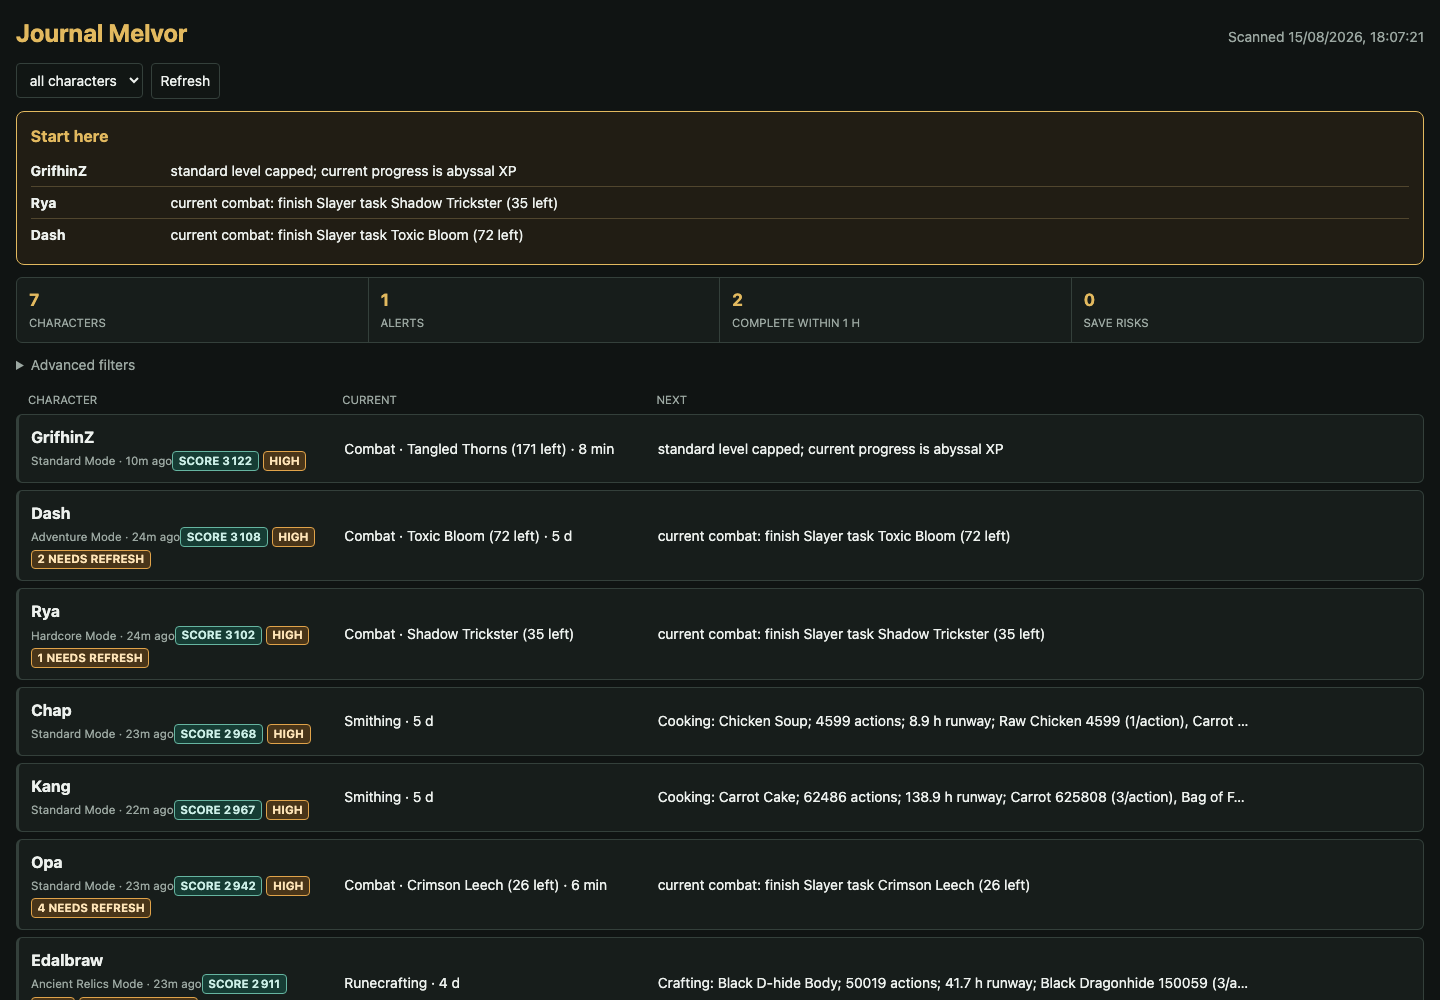
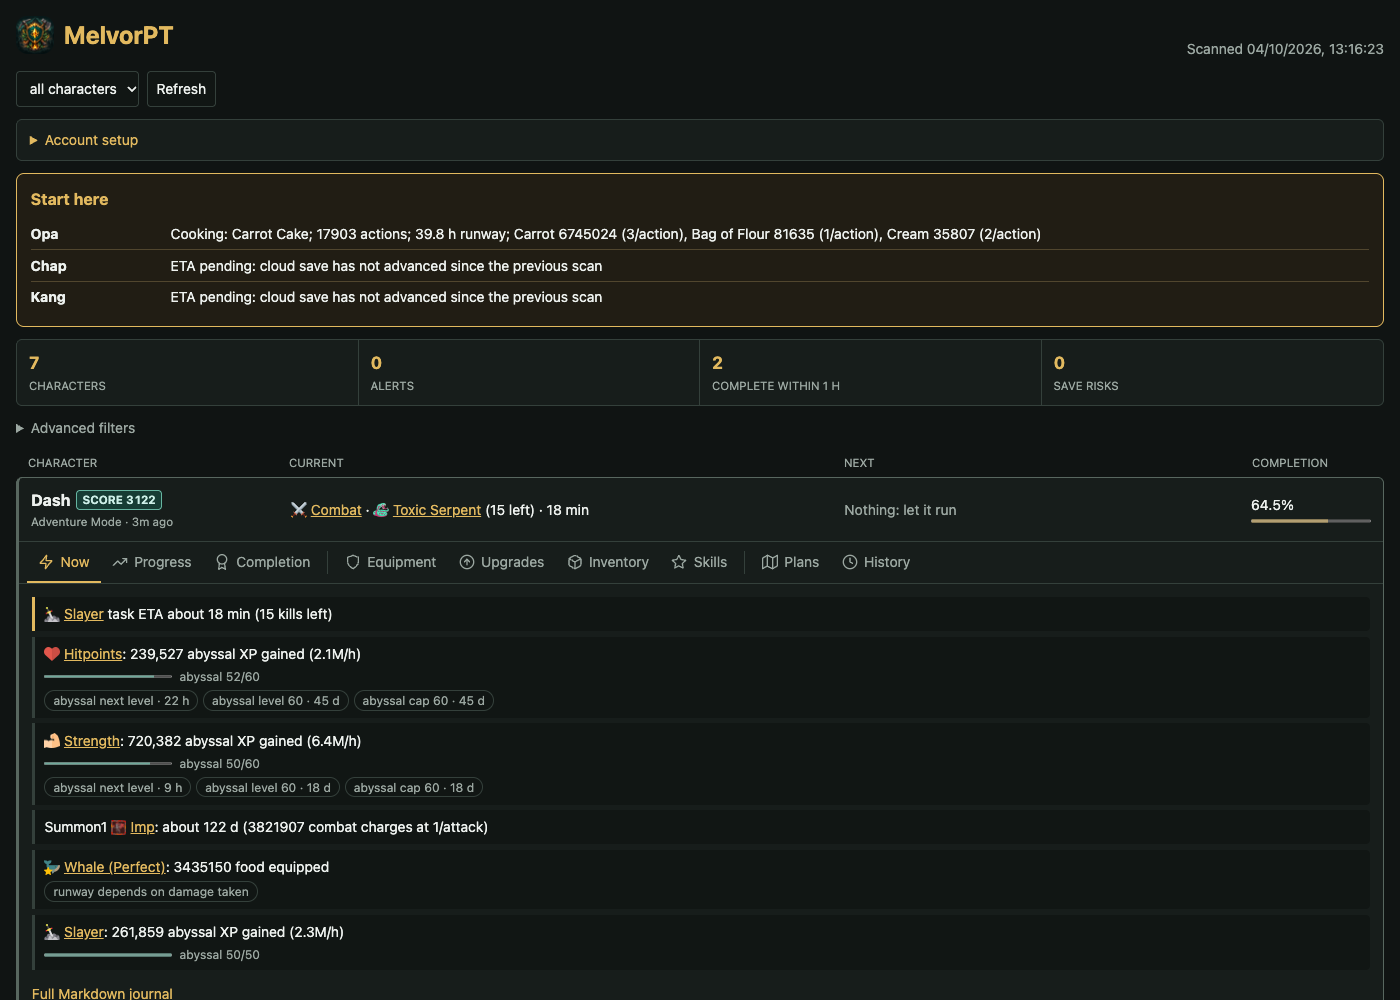
feat(dashboard): readable card columns with completion bar, labelled tab bar, structured Now tab; rename to MelvorPT
- Current/Next/Completion columns get room; idle or pending Next is muted
- Tab bar: icon + label, underline for the active tab, three groups; icons only on mobile
- Now tab: headline, level meter and detail chips instead of one long line
- XP rates are compact (2.1M/h) and ETAs for reached levels are dropped
- Test that the dashboard script still parses (template-literal escapes)
- New README screenshot

diff --git a/melvor-report.js b/melvor-report.js
@@ -332,6 +332,7 @@ async function ensureChrome() {
   throw Error(`Chrome debug port ${PORT} unavailable`);
 }
 
+const fmtRate = n => Intl.NumberFormat('en', { notation: 'compact', maximumFractionDigits: 1 }).format(n);
 function fmtNum(n) {
   return Intl.NumberFormat('en-US', { notation: Math.abs(n) >= 1e9 ? 'compact' : 'standard', maximumFractionDigits: 2 }).format(n);
 }
@@ -1574,14 +1575,14 @@ function progressEtas(current, previous) {
         const nextLevel = Math.min((s.levelCap ?? 120), s.level + 1);
         const nextTen = Math.min((s.levelCap ?? 120), Math.ceil((s.level + 1) / 10) * 10);
         const cap = s.levelCap ?? 120;
-        parts.push(`${s.name}: ${fmtNum(dxp)} XP gained (${fmtNum(dxp * 3600000 / elapsed)}/h)`);
+        parts.push(`${s.name}: ${fmtNum(dxp)} XP gained (${fmtRate(dxp * 3600000 / elapsed)}/h)`);
         if (nextLevel > s.level) parts.push(`next level ETA ${fmtDuration((xpForLevel(nextLevel) - s.xp) / xpPerMs)}`);
         if (nextTen > s.level) parts.push(`level ${nextTen} ETA ${fmtDuration((xpForLevel(nextTen) - s.xp) / xpPerMs)}`);
         if (cap > s.level) parts.push(`cap ${cap} ETA ${fmtDuration((xpForLevel(cap) - s.xp) / xpPerMs)}`);
       }
       if (daxp > 0) {
         const axpPerMs = daxp / elapsed;
-        parts.push(`${s.name}: ${fmtNum(daxp)} abyssal XP gained (${fmtNum(daxp * 3600000 / elapsed)}/h)`);
+        parts.push(`${s.name}: ${fmtNum(daxp)} abyssal XP gained (${fmtRate(daxp * 3600000 / elapsed)}/h)`);
         parts.push(`abyssal level ${s.abyssalLevel ?? '?'}/${s.abyssalCap ?? '?'}`);
         if (s.abyssalXPNextLevel) parts.push(`abyssal next level ETA ${fmtDuration((s.abyssalXPNextLevel - s.abyssalXP) / axpPerMs)}`);
         if (s.abyssalXPNextTen) parts.push(`abyssal level ${Math.min(s.abyssalCap ?? 60, Math.ceil(((s.abyssalLevel ?? 0) + 1) / 10) * 10)} ETA ${fmtDuration((s.abyssalXPNextTen - s.abyssalXP) / axpPerMs)}`);
@@ -1589,7 +1590,7 @@ function progressEtas(current, previous) {
         if (!s.abyssalXPNextLevel && !s.abyssalXPNextTen && !s.abyssalXPCap)
           parts.push('abyssal ETA unavailable until abyssal XP thresholds are mapped');
       }
-      return parts.filter(Boolean).join('; ');
+      return parts.filter(part => part && !/ETA null$/.test(part)).join('; ');
     })
     .filter(Boolean)
     .slice(0, 5);
@@ -1824,7 +1825,7 @@ function renderDashboard(snap) {
 <meta charset="utf-8">
 <meta name="viewport" content="width=device-width, initial-scale=1">
 <link rel="icon" type="image/png" href="/assets/favicon.png">
-<title>Melvor CP</title>
+<title>MelvorPT</title>
 <style>
 :root {
   color-scheme: dark;
@@ -1868,7 +1869,7 @@ button:hover { border-color: var(--accent); }
 button:focus-visible, input:focus-visible, select:focus-visible, summary:focus-visible { outline: 2px solid #e2b95f77; outline-offset: 1px; }
 .check { display: flex; align-items: center; gap: .4rem; white-space: nowrap; color: var(--muted); }
 .check input { width: auto; }
-.column-head, .character-head { display: grid; grid-template-columns: 1fr 1fr 2.5fr; gap: .75rem; min-width: 0; }
+.column-head, .character-head { display: grid; grid-template-columns: minmax(11rem, 1fr) minmax(0, 2.2fr) minmax(0, 1.6fr) 7.5rem; gap: 1rem; min-width: 0; }
 .column-head { padding: .35rem .75rem; color: var(--muted); font-size: .72rem; text-transform: uppercase; }
 .character { margin-bottom: .45rem; border: 1px solid var(--line); border-radius: 6px; background: var(--panel); }
 .character[open] { border-color: #58675f; }
@@ -1879,7 +1880,10 @@ button:focus-visible, input:focus-visible, select:focus-visible, summary:focus-v
 .identity small { color: var(--muted); }
 .identity-title { display: flex; align-items: center; gap: .35rem; min-width: 0; }
 .identity-title .badge { margin: 0; }
-.cell-value { display: block; overflow: hidden; text-overflow: ellipsis; white-space: nowrap; }
+.cell-value { display: -webkit-box; -webkit-line-clamp: 2; -webkit-box-orient: vertical; overflow: hidden; overflow-wrap: anywhere; }
+.cell.idle .cell-value { color: var(--muted); }
+.completion-cell .cell-value { display: grid; gap: .2rem; font-variant-numeric: tabular-nums; }
+.completion-cell progress { width: 100%; height: .35rem; accent-color: var(--accent); }
 .cell-label { display: none; }
 .badge { display: inline-block; margin: .18rem .25rem 0 0; border: 1px solid; border-radius: 4px; padding: .05rem .35rem; font-size: .72rem; font-weight: 650; text-transform: uppercase; }
 .badge.danger, .badge.risk { color: #ffd8d2; border-color: var(--danger); background: #4b211e; }
@@ -1891,17 +1895,26 @@ button:focus-visible, input:focus-visible, select:focus-visible, summary:focus-v
 .tabs { display: flex; gap: .35rem; overflow-x: auto; margin-bottom: .7rem; }
 .tabs button { width: auto; padding: .35rem .65rem; white-space: nowrap; }
 .tabs button[aria-selected="true"] { color: #101413; border-color: var(--accent); background: var(--accent); }
-.tab-switch { display: inline-flex; max-width: 100%; overflow-x: auto; margin-bottom: .7rem; border: 1px solid var(--line); border-radius: 999px; padding: 2px; gap: 2px; }
-.tab-switch button { width: auto; display: grid; place-items: center; padding: .4rem .6rem; border: 0; border-radius: 999px; background: transparent; color: inherit; }
-.tab-switch button:hover { background: var(--line); }
-.tab-switch button[aria-selected="true"] { color: #101413; background: var(--accent); }
-.tab-switch svg { width: 18px; height: 18px; fill: none; stroke: currentColor; stroke-width: 2; stroke-linecap: round; stroke-linejoin: round; }
+.tab-switch { display: flex; overflow-x: auto; margin: -.7rem -.8rem .8rem; padding: 0 .5rem; border-bottom: 1px solid var(--line); scrollbar-width: none; }
+.tab-switch button { width: auto; flex: 0 0 auto; display: flex; align-items: center; gap: .4rem; padding: .6rem .7rem; border: 0; border-bottom: 2px solid transparent; border-radius: 0; background: transparent; color: var(--muted); }
+.tab-switch button:hover { color: var(--ink); border-color: transparent; }
+.tab-switch button[aria-selected="true"] { color: var(--accent); border-bottom-color: var(--accent); }
+.tab-switch .tab-sep { flex: 0 0 1px; margin: .55rem .35rem; background: var(--line); }
+.tab-switch svg { width: 16px; height: 16px; flex: none; fill: none; stroke: currentColor; stroke-width: 2; stroke-linecap: round; stroke-linejoin: round; }
+.insight-list { display: grid; gap: .35rem; }
+.insight { display: grid; gap: .3rem; padding: .45rem .6rem; border-left: 3px solid var(--line); border-radius: 0 4px 4px 0; background: #111614; }
+.insight.p-critical { border-left-color: var(--danger); }
+.insight.p-high { border-left-color: var(--accent); }
+.insight.sev-warning { border-left-color: var(--warning); }
+.insight-chips { display: flex; flex-wrap: wrap; gap: .3rem; }
+.insight-chips span { border: 1px solid var(--line); border-radius: 999px; padding: .05rem .5rem; color: var(--muted); font-size: .76rem; }
+.insight-meter { display: flex; align-items: center; gap: .45rem; color: var(--muted); font-size: .76rem; font-variant-numeric: tabular-nums; }
+.insight-meter progress { width: 8rem; height: .35rem; accent-color: var(--teal); }
 .panel[hidden] { display: none; }
 .panel-grid { display: grid; grid-template-columns: repeat(2, minmax(0, 1fr)); gap: 1rem; }
 .group { min-width: 0; }
 .group h3 { margin: 0 0 .3rem; color: var(--accent); font-size: .82rem; text-transform: uppercase; }
-.insight, .plain-list li { margin: .25rem 0; overflow-wrap: anywhere; }
-.insight .badge { margin-right: .45rem; }
+.plain-list li { margin: .25rem 0; overflow-wrap: anywhere; }
 .plain-list { margin: 0; padding-left: 1.1rem; }
 .equipment-sheet { display: grid; gap: .7rem; }
 .equipment-summary { display: flex; flex-wrap: wrap; gap: .35rem; }
@@ -1954,6 +1967,9 @@ a { color: var(--accent); }
   #q { grid-column: 1 / -1; }
   .column-head { display: none; }
   .character-head { grid-template-columns: repeat(2, minmax(0, 1fr)); gap: .55rem .7rem; }
+  .tab-switch .tab-label { display: none; }
+  .tab-switch button { padding: .55rem .5rem; }
+  .tab-switch .tab-sep { margin: .55rem .15rem; }
   .identity { grid-column: 1 / -1; }
   .cell-label { display: block; color: var(--muted); font-size: .68rem; text-transform: uppercase; }
   .cell-value { white-space: normal; overflow-wrap: anywhere; }
@@ -1961,7 +1977,7 @@ a { color: var(--accent); }
 }
 </style>
 <body>
-<header class="title-row"><div class="brand"><img src="/assets/mpt-crest.png" alt=""><h1>Melvor CP</h1></div><p id="scanTime"></p></header>
+<header class="title-row"><div class="brand"><img src="/assets/mpt-crest.png" alt=""><h1>MelvorPT</h1></div><p id="scanTime"></p></header>
 <section id="refreshControls" aria-label="Refresh journal"><select id="refreshCharacter"><option value="all">all characters</option></select><button id="refreshButton" type="button">Refresh</button><span id="refreshStatus"></span></section>
 <details id="setup"><summary>Account setup</summary><ol><li>Sign in through the official Melvor page in the shared browser profile.</li><li>Set your character roster in <code>.env.local</code>.</li><li>Use Refresh to build the first local journal.</li></ol><p><a href="https://melvoridle.com/" target="_blank" rel="noopener">Open Melvor sign-in</a> · MPT never stores your credentials.</p></details>
 <section id="start"><h2>Start here</h2></section>
@@ -1974,7 +1990,7 @@ a { color: var(--accent); }
   <select id="fPriority"><option value="">all priorities</option><option value="critical">critical</option><option value="high">high</option><option value="medium">medium</option><option value="low">low</option></select>
   <label class="check"><input id="fAttention" type="checkbox"> needs attention</label>
 </div></details>
-<div class="column-head" aria-hidden="true"><span>Character</span><span>Current</span><span>Next</span></div>
+<div class="column-head" aria-hidden="true"><span>Character</span><span>Current</span><span>Next</span><span>Completion</span></div>
 <div id="cards"></div>
 <script id="data" type="application/json">${json}</script>
 <script>
@@ -2070,7 +2086,8 @@ const wikiText = text => {
 const list = items => { const ul = el('ul', 'plain-list'); for (const item of [...new Set(items)].filter(Boolean)) { const row = el('li'); row.append(wikiText(item)); ul.append(row); } return ul; };
 const group = (title, items) => { if (!items.length) return null; const box = el('section', 'group'); box.append(el('h3', '', title), list(items)); return box; };
 // Icon-only tab switch: the label stays in title/aria-label. Static Lucide-style paths, no user data.
-const TAB_LABELS = { now: 'Now', progress: 'Progress', equipment: 'Equipment', upgrades: 'Upgrade plans', completion: 'Completion', skills: 'Skills', inventory: 'Inventory', plans: 'Plans', history: 'History' };
+const TAB_GROUP = { now: 0, progress: 0, completion: 0, equipment: 1, upgrades: 1, inventory: 1, skills: 1, plans: 2, history: 2 };
+const TAB_LABELS = { now: 'Now', progress: 'Progress', equipment: 'Equipment', upgrades: 'Upgrades', completion: 'Completion', skills: 'Skills', inventory: 'Inventory', plans: 'Plans', history: 'History' };
 const TAB_ICONS = {
   now: '<polygon points="13 2 3 14 12 14 11 22 21 10 12 10 13 2"/>',
   progress: '<polyline points="22 7 13.5 15.5 8.5 10.5 2 17"/><polyline points="16 7 22 7 22 13"/>',
@@ -2098,9 +2115,20 @@ const completionSheet = c => {
 const panel = (name, groups) => { const body = el('div', 'panel panel-grid'); body.dataset.panel = name; for (const item of groups.filter(Boolean)) body.append(item); return body.children.length ? body : null; };
 const insightPanel = items => {
   if (!items.length) return null;
-  const body = el('div', 'panel'); body.dataset.panel = 'now';
+  const body = el('div', 'panel insight-list'); body.dataset.panel = 'now';
   for (const item of items.slice(0, 10)) {
-    const row = el('div', 'insight'); row.append(el('span', 'badge ' + item.severity, item.priority), wikiText(item.label)); body.append(row);
+    // "Skill: headline; detail; detail" -> headline + level meter + detail chips
+    const [headline, ...details] = item.label.split('; ');
+    const row = el('div', 'insight p-' + item.priority + ' sev-' + item.severity); row.title = item.priority + ' priority';
+    const head = el('div'); head.append(wikiText(headline)); row.append(head);
+    const chips = el('div', 'insight-chips');
+    for (const detail of details) {
+      const level = /^(abyssal )?level (\\d+)\\/(\\d+)$/.exec(detail);
+      if (level) { const meter = el('div', 'insight-meter'); const bar = el('progress'); bar.max = +level[3]; bar.value = +level[2]; meter.append(bar, el('span', '', (level[1] ? 'abyssal ' : '') + level[2] + '/' + level[3])); row.append(meter); }
+      else chips.append(el('span', '', detail.replace(/ ETA /, ' · ')));
+    }
+    if (chips.children.length) row.append(chips);
+    body.append(row);
   }
   return body;
 };
@@ -2211,7 +2239,12 @@ function render() {
     identity.append(identityTitle, el('small', '', (c.observed.mode || '') + ' · ' + relative(c.observed.at)));
     if (hasRisk(name)) identity.append(el('span', 'badge risk', 'save risk'));
     const cell = (label, value) => { const n = el('div', 'cell'); const text = el('span', 'cell-value'); text.append(value || '—'); n.append(el('span', 'cell-label', label), text); return n; };
-    head.append(identity, cell('Current', wikiText(current(c) + (eta?.etaSeconds ? ' · ' + fmtEta(eta.etaSeconds) : ''))), cell('Next', wikiText(nextAction(decision))));
+    const next = nextAction(decision);
+    const nextCell = cell('Next', wikiText(next)); if (/^(Nothing|ETA pending)/.test(next)) nextCell.classList.add('idle');
+    const done = c.observed.completion?.total;
+    const completionCell = cell('Completion', null); completionCell.classList.add('completion-cell');
+    if (done != null) { const bar = el('progress'); bar.max = 100; bar.value = done; completionCell.querySelector('.cell-value').replaceChildren(el('span', '', done.toFixed(1) + '%'), bar); }
+    head.append(identity, cell('Current', wikiText(current(c) + (eta?.etaSeconds ? ' · ' + fmtEta(eta.etaSeconds) : ''))), nextCell, completionCell);
     details.append(head);
 
     const body = el('div', 'character-body');
@@ -2226,11 +2259,11 @@ function render() {
     const panels = [
       insightPanel(insights(c)),
       panel('progress', [group('Level ETA', c.analysis.progressEtas || []), group('Standard lows', (c.observed.standard?.lowest || []).slice(0, 6).map(s => s.name + ' ' + s.level + '/' + s.cap)), group('Abyssal lows', (c.observed.abyssal?.lowest || []).slice(0, 6).map(s => s.name + ' ' + s.abyssalLevel + '/' + s.abyssalCap))]),
+      completionSheet(c),
       equipment,
       upgradeSheet(c),
-      skillsSheet(c),
       inventorySheet(c),
-      completionSheet(c),
+      skillsSheet(c),
       panel('plans', [group('Standard plan', c.analysis.standardPlan || []), group('Abyssal plan', c.analysis.abyssalPlan || []), group('Decisions', actions), group('Risk notes', c.analysis.riskNotes || [])]),
       history.children.length ? history : null,
     ].filter(Boolean);
@@ -2238,8 +2271,10 @@ function render() {
     for (const [index, content] of panels.entries()) {
       const tabName = content.dataset.panel;
       const label = TAB_LABELS[tabName] || tabName;
-      const btn = el('button', ''); btn.type = 'button'; btn.dataset.tab = tabName; btn.title = label; btn.setAttribute('aria-label', label); btn.setAttribute('role', 'tab'); btn.setAttribute('aria-selected', index === 0 ? 'true' : 'false');
-      if (TAB_ICONS[tabName]) btn.innerHTML = '<svg viewBox="0 0 24 24" aria-hidden="true">' + TAB_ICONS[tabName] + '</svg>'; else btn.textContent = label;
+      const btn = el('button', ''); btn.type = 'button'; btn.dataset.tab = tabName; btn.setAttribute('role', 'tab'); btn.setAttribute('aria-selected', index === 0 ? 'true' : 'false');
+      if (TAB_ICONS[tabName]) btn.innerHTML = '<svg viewBox="0 0 24 24" aria-hidden="true">' + TAB_ICONS[tabName] + '</svg>';
+      btn.append(el('span', 'tab-label', label));
+      if (index && TAB_GROUP[tabName] !== TAB_GROUP[panels[index - 1].dataset.panel]) tabs.append(el('span', 'tab-sep'));
       content.hidden = index !== 0; tabs.append(btn); body.append(content);
     }
     body.prepend(tabs);

diff --git a/test-journal.js b/test-journal.js
@@ -216,7 +216,7 @@ assert.match(html, /wiki\.melvoridle\.com\/api\.php/, 'equipment sheet loads off
 assert.match(html, /score\(b\[1\]\) - score\(a\[1\]\)/, 'characters sort by total-level score');
 assert.match(html, /identity-title/, 'score is grouped with the character name');
 assert.match(html, /nextAction/, 'dashboard keeps the next action compact');
-assert.match(renderDashboard(buildLatest([upgrades], new Map(), null, now)), /Upgrade plans/, 'dashboard renders the dedicated upgrade plans tab');
+assert.match(renderDashboard(buildLatest([upgrades], new Map(), null, now)), /upgrades: 'Upgrades'/, 'dashboard renders the dedicated upgrade plans tab');
 assert.match(html, /SKILL_COLORS/, 'dashboard renders skill colors');
 assert.match(html, /Sort inventory/, 'inventory supports quantity and name sorting');
 assert.match(html, /wikiText/, 'dashboard links known game entities in text panels');
@@ -284,4 +284,10 @@ console.log('journal self-check ok');
   assert.match(line, /completion 50\.60% \(\+0\.50\)/, 'completion shows the delta since the last record');
   assert.match(line, /vs 2026-10-01/, 'completion names the compared record');
   assert.doesNotMatch(completionLine(row('x'), null), /\(\+|vs /, 'first record has no delta');
+}
+
+{
+  // the dashboard script lives in a template literal: a bad escape (e.g. "\/" in a regex) breaks the whole page
+  const html = renderDashboard(buildLatest([], new Map(), null, new Date().toISOString()));
+  for (const [, code] of html.matchAll(/<script>([\s\S]*?)<\/script>/g)) assert.doesNotThrow(() => new Function(code), 'dashboard script parses');
 }

diff --git a/README.md b/README.md
@@ -1,8 +1,8 @@
-# Melvor CP
+# MelvorPT
 
-<p align="center"><img src="assets/mpt-crest.png" width="160" alt="Melvor CP crest"></p>
+<p align="center"><img src="assets/mpt-crest.png" width="160" alt="MelvorPT crest"></p>
 
-<p align="center"><b>Your whole Melvor Idle account, one private command post — with an AI co-pilot that never risks your save.</b></p>
+<p align="center"><b>Your whole Melvor Idle account, one private dashboard — with an AI co-pilot that never risks your save.</b></p>
 
 <p align="center">
 
@@ -18,7 +18,7 @@
 
 Running seven characters across Standard, Hardcore, Adventure and Ancient Relics means
 seven Slayer tasks, seven sets of scrolls running dry and seven saves that can drift between
-local and cloud. Melvor CP puts all of them on one page and lets Claude, Codex or any MCP
+local and cloud. MelvorPT puts all of them on one page and lets Claude, Codex or any MCP
 assistant read, plan and act for you — one reviewed change at a time.
 
 ## Why you'll like it
